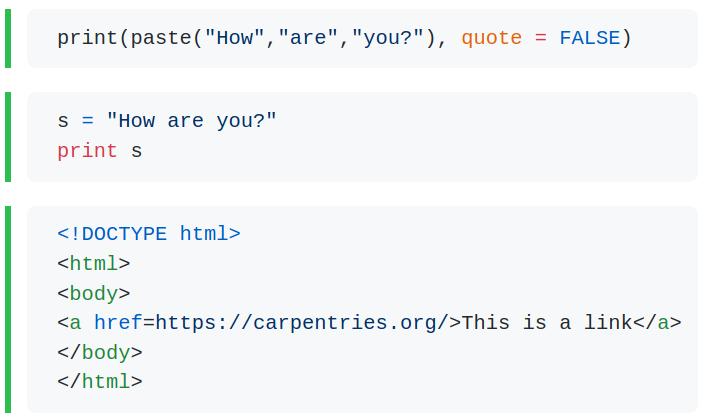
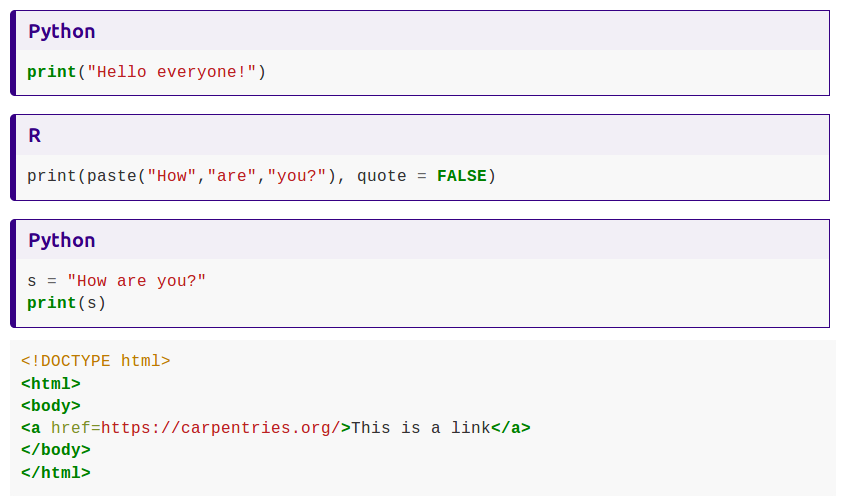
fix exercise with code snippet

diff --git a/episodes/markdown.md b/episodes/markdown.md
@@ -202,34 +202,23 @@ Syntax highlighting of code blocks can increase readability a lot.
 You get nice coloured code by adding an language identifier right after the
 introductory triple backticks.
 
+Let's take an example with Python:
+
+~~~
+```python
+print("Hello everyone!")
+```
+~~~
+
+The code above will produce the following view:
+
+```python
+print("Hello everyone!")
+```
+
 > ## Syntax Highlighting
 >
-> Below are code snippets written in HTML, Python, and R.
-> Copy this code
->
-> ~~~
-> ```_
-> print(paste("How","are","you?"), quote = FALSE)
-> ```
->
-> ```______
-> s = "How are you?"
-> print s
-> ```
->
-> ```____
-> <!DOCTYPE html>
-> <html>
-> <body>
-> <a href=https://carpentries.org/>This is a link</a>
-> </body>
-> </html>
-> ```
-> ~~~
-> {: .source }
->
-> then guess in which programming language each snippet is written,
-> and fill the gaps to activate syntax highlighting, creating this rendered view:
+> Try to reproduce the markdown source code to create the following view:
 >
 > ![Preview tab of code blocks with syntax highlighting](../fig/exercise_syntax_highlighting.png)
 >
@@ -242,7 +231,7 @@ introductory triple backticks.
 > >
 > >     ```python
 > >     s = "How are you?"
-> >     print s
+> >     print(s)
 > >     ```
 > >
 > >     ```html
@@ -270,7 +259,11 @@ You can define either
 
 
 > ## Links
-> Fill in the blanks in this code
+> Reproduce the markdown source code to create the following view:
+>
+> ![Preview tab of inline and reference style links](../fig/exercise_links.png)
+>
+> Start from the following code and fill the blanks:
 >
 > ~~~
 > Example links:
@@ -280,10 +273,6 @@ You can define either
 > [case-insensitive-reference-tag]: https://carpentries.org/
 > ~~~
 > {: .source }
->
-> to create the following rendered view, where both links point to <https://carpentries.org/>:
->
-> ![Preview tab of inline and reference style links](../fig/exercise_links.png)
 >
 >
 > > ## Solution
